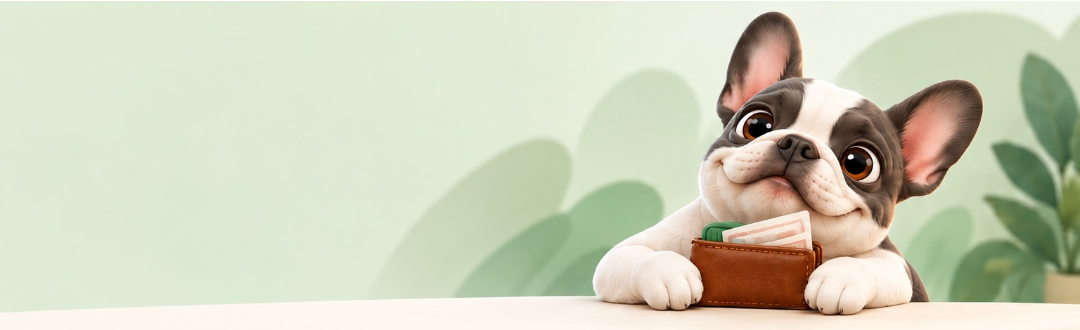
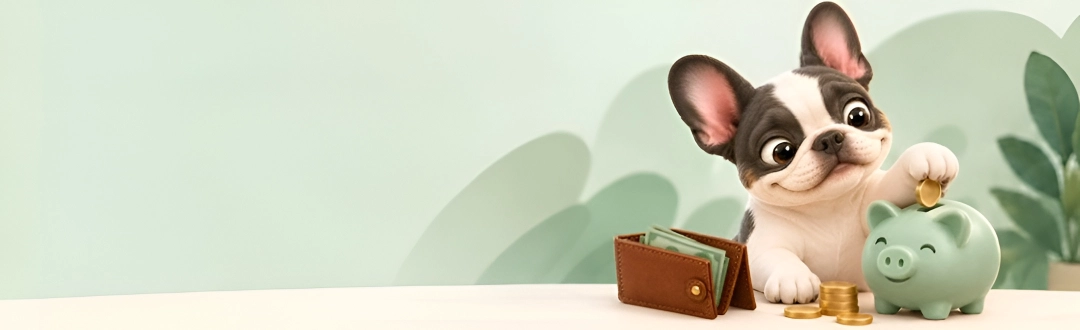
Добавил маршрутизацию с использованием react-router-dom, создал страницу кабинета и обновил главную страницу с кнопками навигации. Обновил стили кнопок и исправил размеры элементов на страницах

diff --git a/src/shared/ui/Button/Button.css b/src/shared/ui/Button/Button.css
@@ -1,39 +1,89 @@
-button {
-  padding: 8px 4px;
-  font-size: 0.7em;
-  border: 0px;
-  border-radius: 8px;
+.button {
+  display: inline-flex;
+  align-self: flex-start;
+  align-items: center;
+  justify-content: center;
+  width: clamp(120px, 22vw, 300px);
+  min-width: 0;
+  max-width: 100%;
+  min-height: clamp(32px, 3.5vw, 56px);
+  padding: 0 clamp(18px, 1.8vw, 30px);
+  border: 1px solid rgb(4 82 58 / 12%);
+  border-radius: clamp(10px, 0.8vw, 16px);
   color: white;
-  width: 120px;
-  background-color: #04523a;
+  background-color: var(--accent);
+  font-family: inherit;
+  font-size: clamp(10px, 0.95vw, 18px);
+  font-weight: 700;
+  line-height: 1.2;
+  white-space: nowrap;
+  cursor: pointer;
+  -webkit-tap-highlight-color: transparent;
+  transition:
+    background-color 160ms ease,
+    box-shadow 160ms ease,
+    opacity 160ms ease,
+    transform 120ms ease;
+  box-shadow: 0 4px 12px rgb(4 82 58 / 14%);
 }
 
-@media (min-width: 374px) {
-  button {
-    padding: 10px 6px;
-    width: 140px;
+.button:hover {
+  background-color: var(--accent-secondary);
+  box-shadow: 0 8px 20px rgb(4 82 58 / 18%);
+  transform: translateY(-1px);
+}
+
+.button:active {
+  transform: translateY(1px);
+  box-shadow: 0 2px 6px rgb(4 82 58 / 16%);
+}
+
+.button:focus-visible {
+  outline: 3px solid rgb(75 150 122 / 45%);
+  outline-offset: 3px;
+}
+
+.button:disabled {
+  opacity: 0.5;
+  cursor: not-allowed;
+  box-shadow: none;
+}
+
+@media (prefers-reduced-motion: reduce) {
+  .button {
+    transition: background-color 160ms ease, box-shadow 160ms ease;
   }
 }
 
-@media (min-width: 1024px) {
-  button {
-    padding: 14px 10px;
-    font-size: 1.2em;
-    width: 300px;
+@media (min-width: 375px) {
+  .button {
+    min-height: clamp(38px, 3.6vw, 60px);
+    font-size: clamp(12px, 0.95vw, 18px);
+    width: clamp(145px, 21vw, 240px);
+  }
+}
+
+@media (min-width: 767px) {
+  .button {
+    min-height: clamp(45px, 3.6vw, 60px);
+    font-size: clamp(13px, 0.95vw, 18px);
+    width: clamp(145px, 21vw, 230px);
   }
 }
 
 @media (min-width: 1439px) {
-  button {
-    font-size: 1.2em;
-    width: 290px;
-    padding: 16px 20px;
+  .button {
+    font-size: 20px;
+    min-height: 64px;
   }
 }
 
 @media (min-width: 2559px) {
-  button {
-    width: 550px;
-    padding: 30px 24px;
+  .button {
+    width: 420px;
+    min-height: 68px;
+    padding: 30px 36px;
+    border-radius: 18px;
+    font-size: 28px;
   }
 }

diff --git a/src/pages/MainPage/MainPage.tsx b/src/pages/MainPage/MainPage.tsx
@@ -1,8 +1,11 @@
+import { useNavigate } from 'react-router-dom';
 import { Button } from '../../shared/ui/Button';
 import { IconBadge } from '../../shared/ui/IconBadge';
 import './MainPage.css';
 
 export const MainPage = () => {
+  const navigate = useNavigate();
+
   return (
     <>
       <div className="brand">
@@ -23,7 +26,11 @@ export const MainPage = () => {
             {' '}
             Учитывайте расходы, планируйте бюджет и понимайте - сколько можно потратить
           </p>
-          <Button name="начать бесплатно →" css={{ marginTop: '8px' }} />
+          <Button
+            name="начать бесплатно →"
+            css={{ marginTop: '8px' }}
+            onClick={() => navigate('/cabinet')}
+          />
         </div>
       </div>
       <div className="feature-section page-section">
@@ -95,7 +102,11 @@ export const MainPage = () => {
           Больше осознанности, больше возможностей для того что делает Вас счастливее
         </p>
         <div className="additional_button">
-          <Button name="начать бесплатно →" css={{ marginTop: '8px' }} />
+          <Button
+            name="начать бесплатно →"
+            css={{ marginTop: '8px' }}
+            onClick={() => navigate('/cabinet')}
+          />
         </div>
       </div>
     </>

diff --git a/src/pages/MainPage/MainPage.css b/src/pages/MainPage/MainPage.css
@@ -5,8 +5,8 @@
 }
 
 .brand > p {
-  margin-top: -10px;
-  font-size: 0.8rem;
+  margin-top: -8px;
+  font-size: 0.7rem;
 }
 
 .brand__logo {
@@ -135,7 +135,7 @@
 }
 
 .cta-section p {
-  max-width: 60%;
+  max-width: 50%;
 }
 
 .analytics-section div {
@@ -157,6 +157,12 @@
 
 .additional_button {
   display: none;
+}
+
+@media (min-width: 374px) {
+  .cta-section p {
+    max-width: 60%;
+  }
 }
 
 @media (min-width: 767px) {
@@ -211,6 +217,10 @@
     font-size: 1.8em;
   }
 
+  .cta-section p {
+    max-width: 50%;
+  }
+
   .additional_button {
     display: block;
   }
@@ -233,6 +243,11 @@
     font-size: 48px;
   }
 
+  .brand > p {
+  margin-top: -8px;
+  font-size: 0.85rem;
+}
+
   .hero__content {
     gap: 12px;
     max-width: 620px;
@@ -254,6 +269,11 @@
 
   .brand__logo {
     padding: 0 7vw;
+  }
+
+  .brand > p {
+  margin-top: -10px;
+  font-size: 0.98rem;
   }
 
   .brand__logo img {
@@ -287,12 +307,8 @@
     padding: 0 8vw;
   }
 
-  .brand__logo img {
-    width: 8rem;
-  }
-
   .brand__logo h1 {
-    font-size: 72px;
+    font-size: 100px;
   }
 
   .hero__content {

diff --git a/src/shared/ui/Button/Button.tsx b/src/shared/ui/Button/Button.tsx
@@ -1,5 +1,16 @@
 import './Button.css';
 
-export const Button = ({ name, css = {} }: { name: string; css?: Record<string, string> }) => {
-  return <button style={{ ...css }}>{name}</button>;
+type ButtonProps = {
+  name: string;
+  css?: Record<string, string>;
+  onClick?: () => void;
+  disabled?: boolean;
+};
+
+export const Button = ({ name, css = {}, onClick, disabled = false }: ButtonProps) => {
+  return (
+    <button className="button" style={{ ...css }} onClick={onClick} disabled={disabled}>
+      {name}
+    </button>
+  );
 };

diff --git a/src/app/router.tsx b/src/app/router.tsx
@@ -1,0 +1,15 @@
+import { BrowserRouter, Navigate, Route, Routes } from 'react-router-dom';
+import { MainPage } from '../pages/MainPage';
+import { CabinetPage } from '../pages/CabinetPage';
+
+export const AppRouter = () => {
+  return (
+    <BrowserRouter>
+      <Routes>
+        <Route path="/" element={<MainPage />} />
+        <Route path="/cabinet" element={<CabinetPage />} />
+        <Route path="*" element={<Navigate to="/" />} />
+      </Routes>
+    </BrowserRouter>
+  );
+};

diff --git a/src/main.tsx b/src/main.tsx
@@ -1,10 +1,10 @@
 import { StrictMode } from 'react';
 import { createRoot } from 'react-dom/client';
 import './index.css';
-import { MainPage } from './pages/MainPage/MainPage.tsx';
+import { AppRouter } from './app/router.tsx';
 
 createRoot(document.getElementById('root')!).render(
   <StrictMode>
-    <MainPage />
+    <AppRouter />
   </StrictMode>,
 );

diff --git a/src/pages/CabinetPage/CabinetPage.tsx b/src/pages/CabinetPage/CabinetPage.tsx
@@ -1,0 +1,8 @@
+export const CabinetPage = () => {
+  return (
+    <main className="cabinet-page">
+      <h1>Личный кабинет</h1>
+      <p>Здесь будут ваши доходы, расходы и цели.</p>
+    </main>
+  );
+};

diff --git a/src/pages/CabinetPage/index.ts b/src/pages/CabinetPage/index.ts
@@ -1,0 +1,1 @@
+export { CabinetPage } from './CabinetPage';
